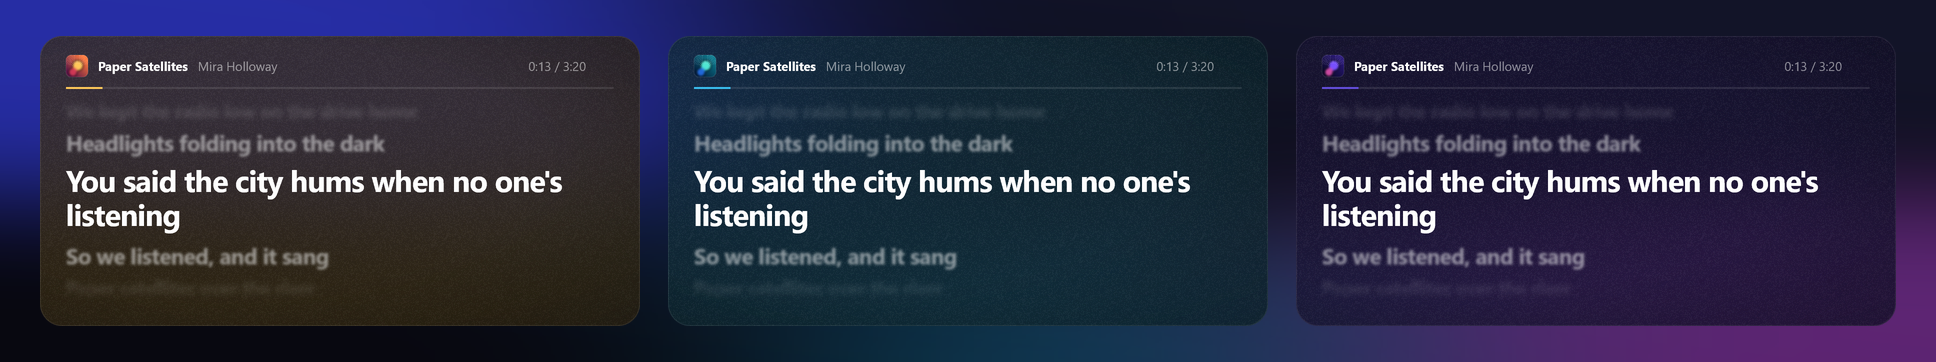
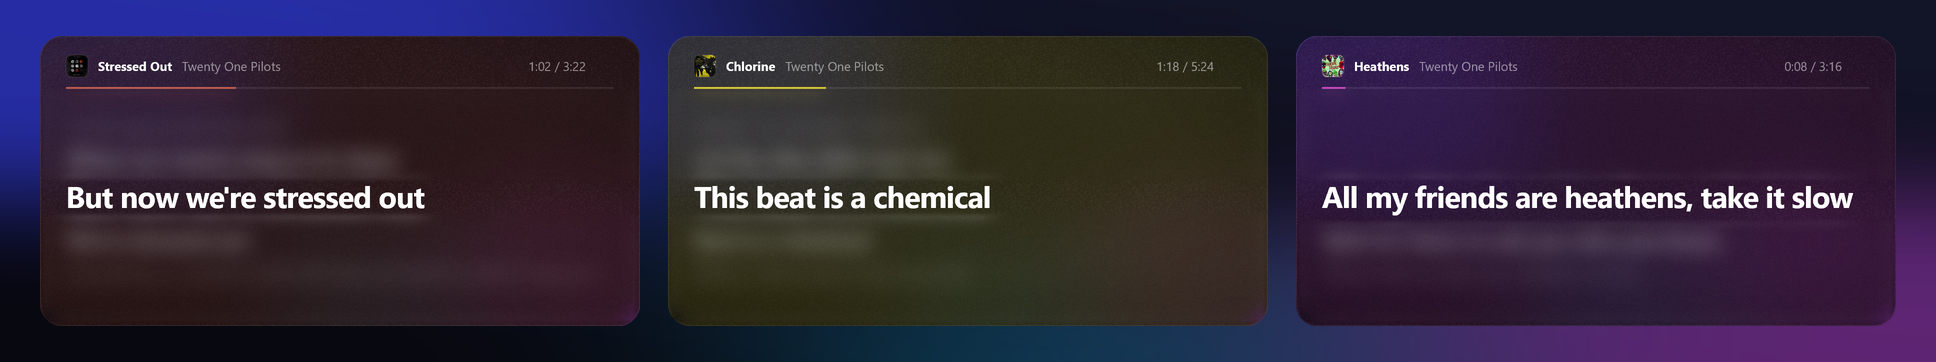
docs: Twenty One Pilots screenshots in the README
The hero shows The Line at 1:55 and the colour strip shows Stressed Out,
Chlorine and Heathens, rendered by the app from LRCLIB lyrics and the
album covers. Only the sung line is legible; the neighbouring lines are
blurred further so each image quotes one short line. The line-change
animation keeps the made-up demo song.

--simulate demo:TRACK.json plays any song described in a file, for
screenshots like these.

diff --git a/src/sim.rs b/src/sim.rs
@@ -5,6 +5,10 @@
 //!   --simulate play | paused | idle | static | hidden
 //!   --simulate demo[:COVER]   a short demo song with original lyrics, for
 //!                             screenshots; COVER is an optional image file
+//!   --simulate demo:TRACK.json  any song, for screenshots: {"title", "artist",
+//!                             "album", "lrc": file, "cover": file,
+//!                             "start_ms", "duration_ms"} (paths relative to
+//!                             the JSON file)
 
 use std::sync::mpsc::Sender;
 use std::time::{Duration, Instant};
@@ -61,14 +65,78 @@ pub fn demo_lrc() -> (String, i64) {
 "), 200_000)
 }
 
+/// What the simulator plays.
+struct Track {
+    title: String,
+    artist: String,
+    album: String,
+    lrc: String,
+    duration_ms: i64,
+    /// Playhead at launch.
+    start_ms: i64,
+    /// Cover image bytes; one byte stands for the simulator's solid red cover.
+    cover: Vec<u8>,
+    source: &'static str,
+}
+
+impl Track {
+    fn synthetic() -> Self {
+        let (lrc, duration_ms) = synthetic_lrc();
+        Track {
+            title: "Synthetic Song".into(),
+            artist: "Profiler".into(),
+            album: "Bench".into(),
+            lrc,
+            duration_ms,
+            start_ms: 5000,
+            cover: vec![0],
+            source: "synthetic",
+        }
+    }
+
+    /// "demo", "demo:<cover image>" or "demo:<track.json>".
+    fn demo(arg: &str) -> Self {
+        let file = arg.strip_prefix(':').map(std::path::Path::new);
+        if let Some(track) = file.filter(|f| f.extension().map_or(false, |e| e == "json")).and_then(Self::from_json) {
+            return track;
+        }
+        let (lrc, duration_ms) = demo_lrc();
+        Track {
+            title: "Paper Satellites".into(),
+            artist: "Mira Holloway".into(),
+            album: "Demo".into(),
+            lrc,
+            duration_ms,
+            start_ms: 5000,
+            cover: file.and_then(|f| std::fs::read(f).ok()).unwrap_or_else(|| vec![0]),
+            source: "demo",
+        }
+    }
+
+    fn from_json(path: &std::path::Path) -> Option<Self> {
+        let v: serde_json::Value = serde_json::from_str(&std::fs::read_to_string(path).ok()?).ok()?;
+        let dir = path.parent()?;
+        let text = |k: &str| v.get(k).and_then(|x| x.as_str()).unwrap_or_default().to_string();
+        let file = |k: &str| v.get(k).and_then(|x| x.as_str()).and_then(|f| std::fs::read(dir.join(f)).ok());
+        Some(Track {
+            title: text("title"),
+            artist: text("artist"),
+            album: text("album"),
+            lrc: String::from_utf8(file("lrc")?).ok()?,
+            duration_ms: v.get("duration_ms")?.as_i64()?,
+            start_ms: v.get("start_ms").and_then(|x| x.as_i64()).unwrap_or(5000),
+            cover: file("cover").unwrap_or_else(|| vec![0]),
+            source: "demo",
+        })
+    }
+}
+
 pub fn spawn<W: Wake>(scenario: String, tx: Sender<Event>, waker: W) {
     std::thread::spawn(move || {
-        // "demo" or "demo:<cover image>"
-        let demo_cover = scenario.strip_prefix("demo").map(|rest| rest.strip_prefix(':').and_then(|f| std::fs::read(f).ok()));
-        let demo = demo_cover.is_some();
-        let (lrc, duration_ms) = if demo { demo_lrc() } else { synthetic_lrc() };
-        // Without a file, a one-byte thumbnail stands for the simulator's solid red cover.
-        let cover = demo_cover.flatten().unwrap_or_else(|| vec![0]);
+        let track = match scenario.strip_prefix("demo") {
+            Some(arg) => Track::demo(arg),
+            None => Track::synthetic(),
+        };
         let started = Instant::now();
         let mut fwd = Forwarder::new(tx, waker);
         let mut polls = 0u32;
@@ -81,28 +149,26 @@ pub fn spawn<W: Wake>(scenario: String, tx: Sender<Event>, waker: W) {
                 _ => {
                     polls += 1;
                     let playing = scenario != "paused";
-                    let pos = if playing { started.elapsed().as_millis() as i64 + 5000 } else { 42_000 };
-                    let (title, artist, album) =
-                        if demo { ("Paper Satellites", "Mira Holloway", "Demo") } else { ("Synthetic Song", "Profiler", "Bench") };
+                    let pos = if playing { started.elapsed().as_millis() as i64 + track.start_ms } else { 42_000 };
                     let p = Playback {
-                        title: title.into(),
-                        artist: artist.into(),
-                        album: album.into(),
-                        duration_ms,
+                        title: track.title.clone(),
+                        artist: track.artist.clone(),
+                        album: track.album.clone(),
+                        duration_ms: track.duration_ms,
                         playing,
-                        position_ms: pos % duration_ms,
+                        position_ms: pos % track.duration_ms,
                         captured: Instant::now(),
                         // Art arrives on the second poll, as with real SMTC.
-                        thumbnail: if polls == 2 { Some(cover.clone()) } else { None },
+                        thumbnail: if polls == 2 { Some(track.cover.clone()) } else { None },
                     };
                     let key = p.key();
                     fwd.push(Some(p));
                     if !sent_lyrics {
                         sent_lyrics = true;
                         let result = LyricsResult {
-                            lines: build_lines(&parse_lrc(&lrc)),
+                            lines: build_lines(&parse_lrc(&track.lrc)),
                             synced: true,
-                            source: if demo { "demo" } else { "synthetic" }.into(),
+                            source: track.source.into(),
                             ..Default::default()
                         };
                         fwd.send(Event::Lyrics { key, result });

diff --git a/README.md b/README.md
@@ -20,7 +20,7 @@ A floating lyrics overlay for Spotify on Windows: transparent, always on top, an
 
 <br>
 
-<img src="docs/hero.png" width="860" alt="The Lyrics UpFront card floating over a desktop: the sung line is sharp and white, the lines around it blurred, with the song title, artist and a thin progress line at the top">
+<img src="docs/hero.png" width="860" alt="The Lyrics UpFront card playing The Line by Twenty One Pilots at 1:55: the sung line is sharp and white, the lines around it blurred, with the song title, artist, clock and a thin progress line at the top">
 
 </div>
 
@@ -38,7 +38,7 @@ When the song moves on, the whole stack rises, the next line pulls into focus an
 
 ## Colours from the cover
 
-<img src="docs/colours.png" width="100%" alt="Three cards side by side, tinted amber, teal and violet to match three different album covers">
+<img src="docs/colours.png" width="100%" alt="Three cards side by side, tinted red, olive and violet to match the covers of Stressed Out, Chlorine and Heathens by Twenty One Pilots">
 
 The card takes its colour from the album art of whatever is playing, then crossfades when the track changes. The cover only supplies the hue. The card stays dark and the lyrics stay white, so a bright or busy cover can never make the words hard to read.
 
@@ -178,6 +178,6 @@ Everything runs on your PC. The only network requests are lyric lookups to LRCLI
 
 MIT, see [LICENSE](LICENSE).
 
-Lyrics UpFront is not affiliated with, endorsed by or connected to Spotify AB. The song in the screenshots is a made-up demo with original lyrics.
+Lyrics UpFront is not affiliated with, endorsed by or connected to Spotify AB or any artist shown. The screenshots show songs by Twenty One Pilots, with lyrics from LRCLIB, as the app displays them; the line-change animation uses a made-up demo song. Song titles, lyrics and artwork belong to their owners.
 
 <sub>Keywords: spotify lyrics overlay · floating lyrics windows · picture in picture lyrics · always on top lyrics · synced lyrics desktop app · spotify mini player lyrics · karaoke lyrics overlay for pc · real-time lyrics windows 10 11</sub>

diff --git a/docs/how-it-works.md b/docs/how-it-works.md
@@ -143,8 +143,9 @@ Lyric lookups allow 5 s to reach LRCLIB and 20 s for its answer (it can take
 after 3 s; after a second failure the card says it cannot reach the lyrics
 and retries every 15 s.
 
-`--simulate demo[:COVER]` plays a short demo song with original lyrics, for
-screenshots, and `LYRICS_UPFRONT_SNAPSHOT=<dir>` (with `--simulate`) saves
+`--simulate demo[:COVER]` plays a short demo song with original lyrics, and
+`--simulate demo:TRACK.json` plays any song from a file (`title`, `artist`,
+`album`, `lrc`, `cover`, `start_ms`, `duration_ms`), for screenshots, and `LYRICS_UPFRONT_SNAPSHOT=<dir>` (with `--simulate`) saves
 every drawn frame there as raw BGRA at twice the display scale; the README
 images are made that way, never from the screen.
 
